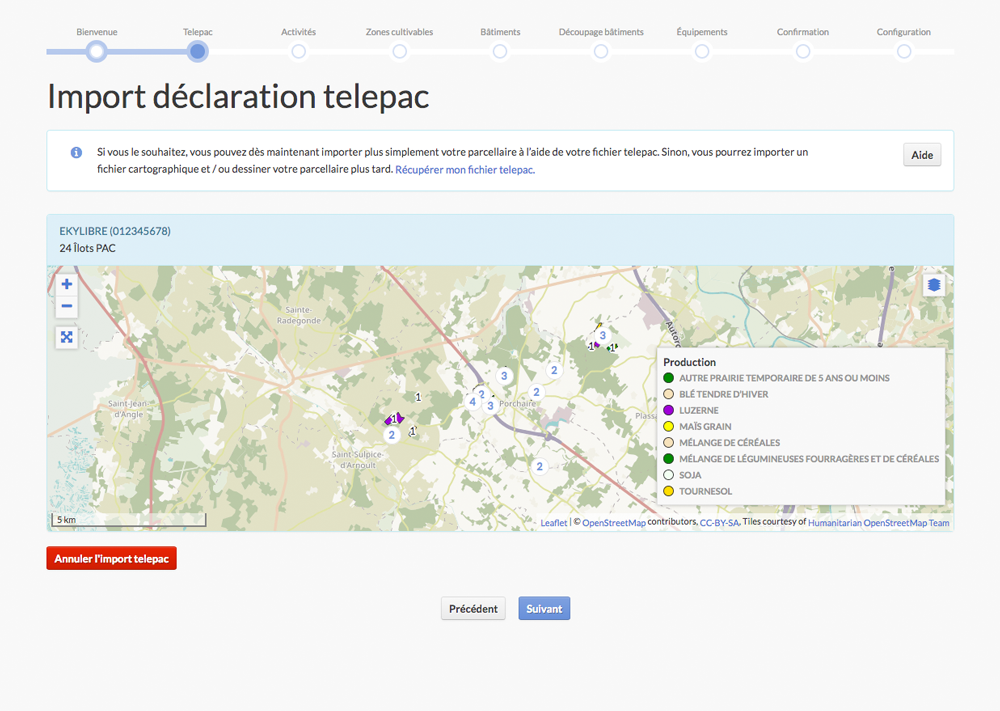
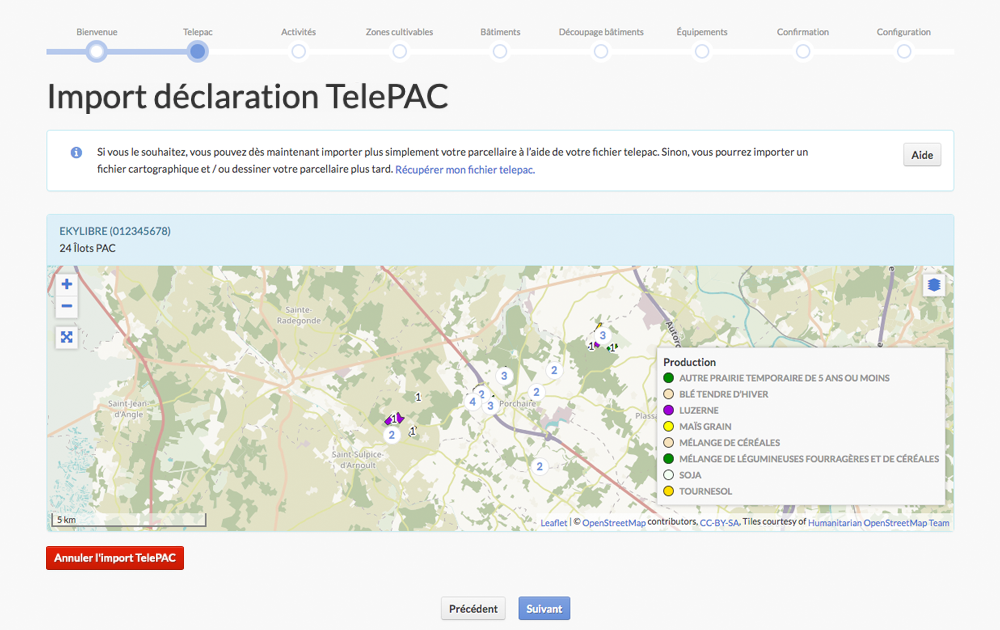
Màj Parcellaire (TelePAC)

diff --git a/content/fr/chapitre2.html b/content/fr/chapitre2.html
@@ -313,7 +313,7 @@
                   <img src="../images/commun/caret-right.svg" alt="Flèche" height="15">
                </div>
                <div class="divTableCellListe" style="width: auto">
-                  Comment <strong>Eky</strong>agri gère les cultures
+                  Comment <strong>Eky</strong>agri | <strong>Eky</strong>viti gèrent les cultures sur le plan du parcellaire
                </div>
             </div>
             <div class="divTableRow">
@@ -321,7 +321,7 @@
                   <img src="../images/commun/caret-right.svg" alt="Flèche" height="15">
                </div>
                <div class="divTableCellListe">
-                  Comment les configurer dans l'application, si cela est utile pour les tâches que vous envisagez de faire avec <strong>Eky</strong>agri
+                  Comment les configurer dans l'application, si cela est utile pour les tâches que vous envisagez de faire avec <strong>Eky</strong>agri | <strong>Eky</strong>viti
                </div>
             </div>
             <div class="divTableRow">
@@ -329,7 +329,15 @@
                   <img src="../images/commun/caret-right.svg" alt="Flèche" height="15">
                </div>
                <div class="divTableCellListe">
-                  Comment récupérer et utiliser le fichier de déclaration TelePAC
+                  Comment récupérer et importer le <a href="#declaration" target="_self">fichier de déclaration TelePAC</a> pour définir vos zones cultivables
+               </div>
+            </div>
+			<div class="divTableRow">
+               <div class="divTableCellListe">
+                  <img src="../images/commun/caret-right.svg" alt="Flèche" height="15">
+               </div>
+               <div class="divTableCellListe">
+                  Comment utiliser le <a href="#rpg" target="_self">registre parcellaire graphique</a> pour définir vos zones cultivables
                </div>
             </div>
          </div>
@@ -344,6 +352,22 @@
                </div>
                <div class="divTableCellGlossaire2">
                   ensemble des productions d'un même type. Une activité est définie par l'espèce produite &#40;animale ou végétale&#41; et peut être ouverte ou fermée d'une campagne à la suivante
+               </div>
+            </div>
+			<div class="divTableRow">
+               <div class="divTableCellGlossaire1">
+                  Export
+               </div>
+               <div class="divTableCellGlossaire2">
+                  action de transférer des informations incluses dans un logiciel vers un fichier que l'on récupère sur un disque dur ou une clé USB
+               </div>
+            </div>
+			<div class="divTableRow">
+               <div class="divTableCellGlossaire1">
+                  Import
+               </div>
+               <div class="divTableCellGlossaire2">
+                  action de transférer dans un logiciel des informations contenues dans un fichier que l'on a sur un disque dur ou une clé USB
                </div>
             </div>
             <div class="divTableRow">
@@ -364,18 +388,10 @@
             </div>
             <div class="divTableRow">
                <div class="divTableCellGlossaire1">
-                  Import
+                  XML
                </div>
                <div class="divTableCellGlossaire2">
-                  action de transférer dans un logiciel des informations contenues dans un fichier que l'on a sur un disque dur ou une clé USB
-               </div>
-            </div>
-            <div class="divTableRow">
-               <div class="divTableCellGlossaire1">
-                  Export
-               </div>
-               <div class="divTableCellGlossaire2">
-                  action de transférer des informations incluses dans un logiciel vers un fichier que l'on récupère sur un disque dur ou une clé USB
+                  &#40;Extensible Markup Language&#41; est un langage de balisage permettant de faciliter l'échange d'informations sur internet 
                </div>
             </div>
          </div>
@@ -385,7 +401,7 @@
         <input type="checkbox" id="chck1">
         <label class="tab-label" for="chck1">Note aux utilisateurs d'Ekyviti</label>
         <div class="tab-content">
-          Intégrez les données de la déclaration PAC si celle-ci englobe d'autres activités végétales que la vigne ou si la déclaration est obligatoire pour bénéficier d'une aide &#40;aide restructuration, souscription à une assurance récolte, engagement en agriculture biologique&#41; afin de répondre aux exigences de la réglementation en vigueur. Utilisez plus tard la procédure d'<a href="../ekyviti" class="avoid-clicks" target="_self">import et de conversion d'un ou plusieurs casiers viticoles informatisés</a> pour préparer et transformer les données du parcellaire cadastral en parcelles et en cultures viticoles compatibles avec le système de gestion parcellaire propre à <strong>Eky</strong>agri.
+          Intégrez les données de la déclaration PAC si celle-ci englobe d'autres activités végétales que la vigne ou si la déclaration est obligatoire pour bénéficier d'une aide &#40;aide restructuration, souscription à une assurance récolte, engagement en agriculture biologique&#41; afin de répondre aux exigences de la réglementation en vigueur. Utilisez plus tard la procédure d'<a href="../ekyviti" class="avoid-clicks" target="_self">import et de conversion d'un ou plusieurs casiers viticoles informatisés</a> pour préparer et transformer les données du parcellaire cadastral en parcelles et en cultures viticoles compatibles avec le système de gestion parcellaire propre aux solutions développées par Ekylibre.
         </div>
       </div>
       </div>
@@ -474,7 +490,7 @@
                            Surface couverte par une même culture de caractéristique identique &#40;exemple&nbsp;: maïs bio&#41;
                         </div>
                         <div class="divTableCell35" style="width: 50%">
-                           Surface de travail qui portera une ou plusieurs cultures différentes.
+                           Surface de travail qui portera une ou plusieurs cultures différentes
                         </div>
                      </div>
                   </div>
@@ -493,7 +509,7 @@
                                     <img src="../images/commun/circle.svg" alt="Puce" height="15">
                                  </div>
                                  <div class="divTableCellListe" style="width: auto">
-                                    Tout ou partie d'une parcelle d'<strong>Eky</strong>agri qui permet, une fois subdivisée, de cultiver des variétés différentes d'une même espèce &#40;exemple&nbsp;: variétés de blé Apache et Aztec&#41;.
+                                    Tout ou partie d'une parcelle qui permet, une fois subdivisée, de cultiver des variétés différentes d'une même espèce &#40;exemple&nbsp;: blé Apache et Aztec&#41;
                                  </div>
                               </div>
                               <div class="divTableRow">
@@ -516,7 +532,7 @@
       <a class="slice-process" id="zones"></a>
       <h2 class="texte aerateur">b - Quatre manières de créer les zones cultivables</h2>
       <p class="texte">
-         La création des zones cultivables peut être faite de quatre manières différentes dans <strong>Eky</strong>agri et <strong>Eky</strong>viti.
+         La création des zones cultivables peut être faite de quatre manières différentes dans <strong>Eky</strong>agri | <strong>Eky</strong>viti.
       </p>
       <div class="affichage-large"></div>
       <div class="affichage-mobile">
@@ -545,7 +561,7 @@
                         </div>
                         <div class="divTableCell34" style="width: 50%">
                            <p>
-                              Si vous êtes un&#40;e&#41; agricult&#40;eur|rice&#41; français&#40;e&#41;, c'est la méthode la plus simple. Elle permet d'intégrer directement vos zones cultivables et vos activités agricoles. Si toutes vos activités agricoles ne sont pas déclarées à la PAC vous pourrez les ajouter par l'une des trois autres méthodes. L'opération se fait généralement dans l'assistant de démarrage mais peut aussi se faire plus tard.
+                              Si vous êtes un&#40;e&#41; agricult&#40;eur|rice&#41; français&#40;e&#41;, c'est la méthode la plus simple. Elle permet d'intégrer directement vos zones cultivables et vos activités agricoles. Si toutes vos activités végétales ne sont pas déclarées à la PAC, vous pouvez les ajouter dans l'assistant de démarrage ou plus tard.
                            </p>
                         </div>
                      </div>
@@ -599,7 +615,7 @@
       <h6>Guide de prise en main • Parcellaire • Données TelePAC</h6>
       <a class="slice-process" id="declaration"></a>
       <h2 class="texte aerateur">c - Récupération et utilisation des données TelePAC</h2>
-      <p class="texte">Vous devez disposer du fichier TelePAC au format XML &#40;un format de fichier de données&#41;. <strong>Eky</strong>agri ne récupère dans l'intégration du fichier TelePAC que vos surfaces agricoles ainsi que vos activités déclarées à la PAC.</p>
+      <p class="texte">Vous devez disposer du fichier TelePAC au format <span class="tooltip">XML<span class="tooltiptext tooltip-top">Voir glossaire</span></span>. Lors de l'intégration du fichier TelePAC, <strong>Eky</strong>agri et <strong>Eky</strong>viti ne récupèrent que les surfaces agricoles, les SNA et les activités déclarées à la PAC.</p>
       <p class="texte">Notez que ce service n'est disponible que pour les exploitations situées en France.</p>
       <div class="info-fond aerateur-haut aerateur-bas">
          <div class="floating-box-info">
@@ -662,6 +678,7 @@
       </div>
       <div class="process-txt">
          <span class="titre-advice">Rendez-vous sur le site TelePAC</span>
+		 <p>Avec un logiciel de navigation web, connectez-vous sur le portail TelePAC du Ministère de l'Agriculture et de l'Alimentation.</p>
          <div class="url-bleue">
             <a href="https://www.telepac.agriculture.gouv.fr" title="TelePAC" target="_blank">https://www.telepac.agriculture.gouv.fr</a>
          </div>
@@ -674,7 +691,7 @@
          <img src="../images/commun/step2.svg" alt="2" width="52" />
       </div>
       <div class="process-txt">
-         <span class="titre-advice">Connectez-vous</span>
+         <span class="titre-advice">Connectez-vous à votre espace personnel</span>
          <p>
             Entrez le numéro Pacage et le mot de passe utilisé au moment de la dernière déclaration, puis cliquez sur le bouton "Connexion".
          </p>
@@ -687,12 +704,12 @@
          <img src="../images/commun/step3.svg" alt="3" width="52" />
       </div>
       <div class="process-txt">
-         <span class="titre-advice">Allez dans votre dossier PAC</span>
+         <span class="titre-advice">Sélectionnez votre dossier PAC</span>
+		 <p>
+            Dans la liste à gauche cliquez 1&#41; sur "Téléprocédures", puis 2&#41; sur "Dossier PAC 20XX" &#40;année de déclaration&#41;.
+         </p>
          <p class="max-img-process">
             <img src="../images/chapitre2/telepac3.png" class="contour-img" alt="Dossier PAC" />
-         </p>
-         <p>
-            Dans la liste à gauche cliquez 1&#41; sur "Téléprocédures", puis 2&#41; sur "Dossier PAC 20XX" &#40;année de déclaration&#41;.
          </p>
       </div>
       <br />
@@ -700,12 +717,12 @@
          <img src="../images/commun/step4.svg" alt="4" width="52" />
       </div>
       <div class="process-txt">
-         <span class="titre-advice">Allez dans IMPORT/EXPORT</span>
+         <span class="titre-advice">Allez dans la section IMPORT/EXPORT</span>
+		 <p>
+            Cliquez sur l'onglet "IMPORT/EXPORT" situé dans la barre de menu en haut de la fenêtre principale.
+         </p>
          <p class="max-img-process">
             <img src="../images/chapitre2/telepac4.png" class="contour-img" alt="Import/Export TelePAC" />
-         </p>
-         <p>
-            Cliquez sur l'onglet "IMPORT/EXPORT" dans la barre de menu en haut.
          </p>
       </div>
       <br />
@@ -713,15 +730,15 @@
          <img src="../images/commun/step5.svg" alt="5" width="52" />
       </div>
       <div class="process-txt">
-         <span class="titre-advice">Faites l'export TelePAC XML</span>
+         <span class="titre-advice">Réalisez l'export du dossier TelePAC</span>
+		 <p>
+            Cliquez 1&#41; sur "Export dossier complet &#40;XML&#41;" dans la barre en haut, puis 2&#41; sur le lien "Export dossier complet &#40;XML&#41;" de la campagne choisie &#40;de préférence la dernière à votre disposition&#41;.
+         </p>
          <p class="max-img-process">
             <img src="../images/chapitre2/telepac5.png" class="contour-img" alt="Export déclaration TelePAC" />
          </p>
          <p>
-            Cliquez 1&#41; sur "Export dossier complet &#40;XML&#41;" dans la barre en haut, puis 2&#41; sur le texte "Export dossier complet &#40;XML&#41;" de la dernière campagne.
-         </p>
-         <p>
-            Le fichier va venir se placer dans vos téléchargements.
+            Le fichier au format <span class="tooltip">XML<span class="tooltiptext tooltip-top">Voir glossaire</span></span> va venir s'enregistrer dans vos téléchargements.
          </p>
       </div>
       <div class="info-fond aerateur-haut aerateur-bas">
@@ -755,7 +772,7 @@
       <a class="slice-process" id="telepac"></a>
       <h3 align="center" class="texte aerateur procedure">B - Procédure de configuration des zones de cultures et activités agricoles à partir du fichier de "Déclaration TelePAC"</h3>
       <p class="texte">
-         Votre fichier de déclaration TelePAC contient les zones de culture &#40;îlots TelePAC et activités agricoles&#41; que vous avez déclarées sur le site des téléservices des aides de la PAC. La procédure montre comment l'utiliser. Pour les zones ou activités non déclarées à la PAC, reportez-vous au <a href="#zones" class="avoid-clicks">tableau 2</a> plus haut.
+         Votre fichier de déclaration TelePAC contient les zones de culture &#40;îlots TelePAC et activités agricoles&#41; que vous avez déclarées sur le site des téléservices des aides de la PAC. La procédure montre comment l'utiliser. Pour les zones ou activités non déclarées à la PAC, reportez-vous au <a href="#zones" class="avoid-clicks">tableau récapitulatif</a> de la <strong>section b</strong> de ce chapitre.
       </p>
       <div class="warn-fond aerateur-haut aerateur-bas">
          <div class="floating-box-warn">
@@ -772,8 +789,8 @@
          <img src="../images/commun/step1.svg" alt="1" width="52" />
       </div>
       <div class="process-txt">
-         <span class="titre-advice">Panneau d'Import de la Déclaration TelePAC</span>
-         <p>Si vous êtes toujours sur le panneau "Bienvenue dans l'assistant de Démarrage", cliquez sur <span class="btn-blue">Suivant</span> pour arriver au panneau d'import TelePAC.</p>
+         <span class="titre-advice">Affichez l'étape de l'import TelePAC</span>
+         <p>Si vous êtes toujours à l'étape "Bienvenue dans l'assistant de Démarrage", cliquez sur <span class="btn-blue">Suivant</span> pour basculer sur l'étape d'import de la déclaration TelePAC.</p>
          <p class="max-img-process">
             <img src="../images/chapitre2/import-telepac1.png" class="contour-img" alt="Import déclaration TelePAC" />
          </p>
@@ -783,11 +800,9 @@
          <img src="../images/commun/step2.svg" alt="2" width="52" />
       </div>
       <div class="process-txt">
-         <span class="titre-advice">Cliquez sur le bouton "Parcourir" pour sélectionner votre fichier TelePAC</span>
+         <span class="titre-advice">Lancez le processus d'import du fichier TelePAC</span>
          <p>
-            Choisissez la campagne dans la liste déroulante, puis sélectionnez le fichier TelePAC sur votre disque dur.
-            <br />
-            Dès que vous aurez validé le choix du fichier, l'intégration des informations commencera.
+            Choisissez la campagne de votre dossier dans la liste déroulante, puis cliquez sur le bouton "Parcourir" pour sélectionner le fichier TelePAC concordant avec celle-ci. Dès que vous avez validé l'opération, le chargement des informations débute.
          </p>
          <p class="max-img-process">
             <img src="../images/chapitre2/import-telepac2.png" class="contour-img" alt="Import déclaration TelePAC" />
@@ -798,15 +813,15 @@
          <img src="../images/commun/step3.svg" alt="3" width="52" />
       </div>
       <div class="process-txt">
-         <span class="titre-advice">Fin de la récupération des informations du fichier TelePAC</span>
+         <span class="titre-advice">Validez la bonne exécution de l'opération</span>
          <p>
-            Une fois la récupération terminée, la carte affiche vos zones cultivables et activités agricoles.
+            Patientez quelques instants. Une fois le chargement des données terminé, la carte affiche vos zones cultivables et vos activités agricoles &#40;productions végétales&#41;.
          </p>
          <p class="max-img-process">
             <img src="../images/chapitre2/import-telepac3.png" class="contour-img" alt="Import déclaration TelePAC" />
          </p>
          <p>
-            Notez que les chiffres dans les pastilles blanches sur la carte indiquent le nombre d'activités agricoles localisées à cet endroit. Si vous zoomez sur la carte, vous pourrez voir le détail de ces zones.
+            Notez que les chiffres dans les pastilles blanches sur la carte indiquent le nombre d'activités localisées à cet endroit. Si vous zoomez sur la carte avec le bouton<img src="../images/commun/plus.svg" alt="Zoom avant" height="20" class="icone-marge-gauche align-icone">, vous pouvez voir le détail de ces zones.
          </p>
          <p class="max-img-process">
             <img src="../images/chapitre2/import-telepac4.png" class="contour-img" alt="Import déclaration TelePAC" />
@@ -818,28 +833,23 @@
             <img src="../images/commun/attention.svg" width="100" alt="Attention"/>
          </div>
          <div class="info-txt">
-            <span class="titre-advice">Vérifiez vos zones et activités agricoles<br /></span>
-            <p class="texte-advice">
-               Prenez le temps de vérifier que les contours de vos îlots correspondent bien à la réalité du terrain et sont donc conformes à vos attentes.
-            </p>
-            <br />
-            Il est plus facile d'intégrer les bonnes informations maintenant que de devoir les modifier une par une après.
+            <span class="titre-advice">Contrôlez vos zones et activités agricoles<br /></span>
+            <p class="texte-advice">Prenez le temps de vérifier que les contours de vos îlots ainsi que vos activités correspondent bien à la réalité du terrain et qu'ils sont donc bien conformes à vos attentes.<br />Il est plus facile d'intégrer les bonnes informations maintenant, plutôt que de devoir les modifier une par une après.</p>
          </div>
       </div>
       <div class="floating-box process">
          <span class="etape"></span>
       </div>
       <div class="process-txt">
-         <p>Si vous souhaitez remplacer les informations intégrées par celles d'un autre fichier de déclaration TelePAC, vous pouvez le faire en cliquant sur le bouton <span class="btn-red">Annuler l'import TelePAC</span>.</p>
+         <p>Si vous souhaitez annuler l'import ou remplacer les données par celles d'une autre déclaration, vous pouvez le faire en cliquant sur le bouton situé à gauche de l'interface de l'assistant de démarrage&nbsp;:</p>
+		 <p align="center"><span class="btn-red">Annuler l'import TelePAC</span></p>
       </div>
       <div class="floating-box process">
          <img src="../images/commun/step4.svg" alt="4" width="52" />
       </div>
       <div class="process-txt">
-         <span class="titre-advice">Passez au panneau "Activités"</span>
-         <p>
-            Maintenant que vos informations TelePAC sont intégrées dans l'application, vous pouvez passer au panneau "Activités" en cliquant sur "Suivant".
-         </p>
+         <span class="titre-advice">Passez à l'étape "Activités"</span>
+         <p>Maintenant que les informations du dossier TelePAC sont chargées dans l'assistant de démarrage, vous pouvez passer à l'étape "Activités" en cliquant sur le bouton <span class="btn-blue">Suivant</span>.</p>
       </div>
       <br />
 	  <h6>Guide de prise en main • Parcellaire • Utilisation du RPG</h6>
@@ -847,17 +857,16 @@
       <h2 class="texte aerateur">d - Utilisation du registre parcellaire graphique</h2>
 	  <p class="texte">Si vous ne déclarez pas à la PAC, Ekylibre met à votre disposition les données du registre parcellaire graphique &#40;RPG&#41;, avec la possibilité de créer les zones cultivables à partir de la version anonymisée diffusée par le service public &#40;contours des parcelles et des îlots culturaux transmis à la PAC&#41;.</p>
 	  <p class="texte">Notez que ce service n'est disponible que pour les exploitations situées en France.</p>
-      <p class="texte">En cours de rédaction.</p>
+      <p class="texte"><em>Documentation en cours de rédaction.</em></p>
       <a class="slice-process" id="no-pac"></a>
       <h2 class="texte aerateur">e - Création des zones cultivables sans fichier TelePAC.</h2>
-      <p class="texte">Comme évoqué dans le <a href="#zones" class="avoid-clicks">tableau 2</a>, il est possible de créer des zones cultivables et activités agricoles en dessinant ou à l'aide d'un fichier géographique.
+      <p class="texte">Comme expliqué au <a href="#zones" class="avoid-clicks">début de ce chapitre</a>, il est possible de créer des zones cultivables à l'aide d'outils de dessin ou en important des fichiers géographiques compatibles.
       </p>
       <p class="texte">
-         Ces opérations se réalisent dans l'étape "Activités de l'exploitation" de l'assistant de démarrage.
+         Ces opérations se réalisent à l'étape "Zones cultivables" de l'assistant de démarrage et sont documentées dans le <a class="avoid-clicks" href="../chapitre3">chapitre suivant</a>.
       </p>
-      <p class="texte">
-         Si vous êtes toujours sur le panneau "Bienvenue dans l'assistant de démarrage", cliquez sur <span class="btn-blue">Suivant</span> pour arriver au panneau d'"Import déclaration TelePAC" puis à nouveau sur <span class="btn-blue">Suivant</span> pour arriver au panneau "Activités de l'exploitation".
-      </p>
+      <p class="texte">Si vous êtes toujours à l'étape "Bienvenue dans l'assistant de démarrage", cliquez sur <span class="btn-blue">Suivant</span> pour passer à l'étape "Import déclaration TelePAC".</p>
+	  <p class="texte">Cliquez à nouveau sur <span class="btn-blue">Suivant</span> pour accéder à l'étape "Activités de l'exploitation"&nbsp;:</p>
       <p class="texte max-img-inline aerateur-bas">
          <img src="../images/chapitre2/barre-progression.png" class="contour-img" alt="Barre de progression" />
       </p>

diff --git a/content/fr/demarrage.html b/content/fr/demarrage.html
@@ -18,7 +18,7 @@
 	  <h1 align="center" class="texte majuscule aerateur-haut aerateur-bas">Guide de prise en main</h1>
       <p align="center"><img src="../images/accueil/icone-doc.png" alt="Documentation Ekylibre" height="100px"></p>
       <p class="texte" align="center"><img src="../images/accueil/logos-eky.png" alt="Logos Ekylibre" style="width: 500px"></p>
-      <p class="texte aerateur-haut">Ce guide de prise en main a pour objectif d'aider le nouvel utilisateur à configurer rapidement et correctement les applications développées par Ekylibre pour la gestion des exploitations agricoles et viticoles. Cette documentation en ligne a été mise à jour le 2 novembre 2021.</p>
+      <p class="texte aerateur-haut">Ce guide de prise en main a pour objectif d'aider le nouvel utilisateur à configurer rapidement et correctement les applications développées par Ekylibre pour la gestion des exploitations agricoles et viticoles. Cette documentation en ligne a été mise à jour le 3 novembre 2021.</p>
       <div class="info-fond aerateur-haut aerateur-bas">
          <div class="floating-box-info">
             <img src="../images/commun/info.svg" width="100" alt="Info"/>
